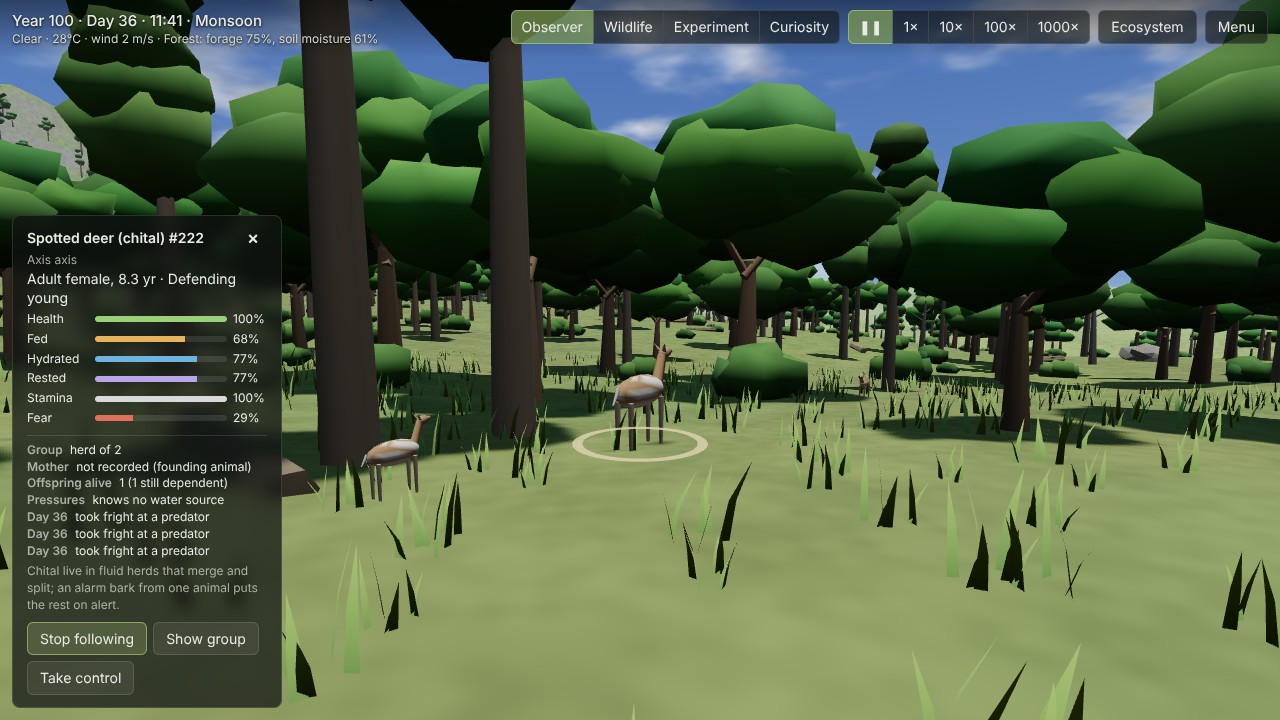
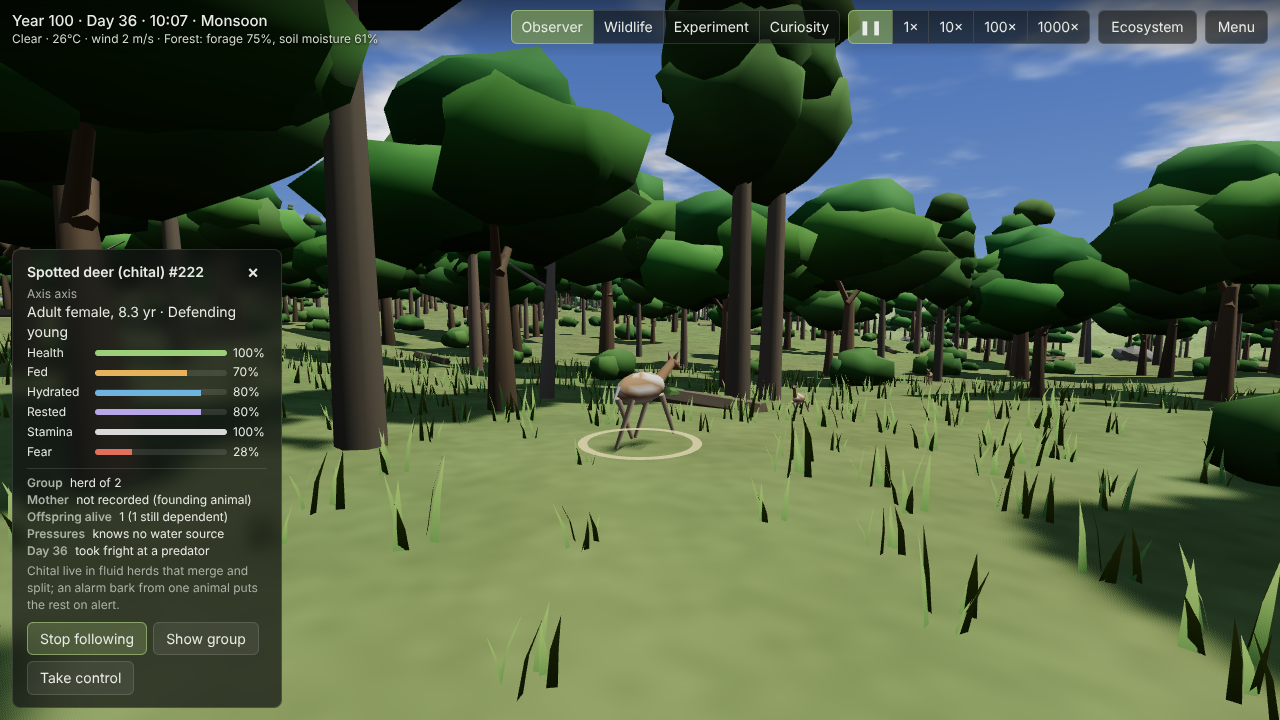
evidence(#31): event-triggered maternal captures, all six scenes (fawn rest/follow, chital defence, sow charge, jackal withdraw/alert)
Claude-Session: https://claude.ai/code/session_01MD7GqSBKWnauofqyDvXkjC

diff --git a/docs/MATERNAL_BEHAVIOUR.md b/docs/MATERNAL_BEHAVIOUR.md
@@ -109,6 +109,22 @@ decide, and physically respond. Unrelated adults have no maternal abilities. Pro
 | Charge injury | 50% of contacts, −0.12 health | Assumed |
 | Chital mother abandon threshold | hunger 0.85 | Assumed |
 
+## Browser captures (`docs/evidence/maternal/`)
+Opt-in project `maternal-capture`, seed 2, medium quality, rendered with SwiftShader.
+- Each scene places real animal records at an open spot. Everything after placement is the simulation.
+- Each capture is triggered by the behaviour actually occurring. The simulation is paused for the screenshot; rendering
+  continues.
+- All six conditions occurred and are recorded in `maternal.json`:
+
+| # | Scene | Simulation state at capture |
+|---|---|---|
+| 1 | Fawn settles beside its resting mother | Both resting |
+| 2 | Mother gets up and walks off | Mother walking; fawn "Following mother" |
+| 3 | Jackal near the fawn | Mother "Defending young" (head high); fawn fleeing to her; jackal alert |
+| 4 | Sow, piglet, jackal | Sow "Defending young" at a run (charge); piglet sheltering; jackal alert |
+| 5 | After the charge | Jackal fleeing (withdrew). The run's counters record a charge contact with an injury |
+| 6 | Adult chital walks toward a jackal | Jackal "Alert", facing it; it does not attack |
+
 ## Not yet done
 - The paired-seed evaluation:
   - juvenile mortality (`juvenileDeaths`, cohort survival);
@@ -117,4 +133,4 @@ decide, and physically respond. Unrelated adults have no maternal abilities. Pro
   - population stability;
   - all against configuration C (territories, closed, B1).
   It will run with the same per-seed runner after the #29 runs, which hold the CPU.
-- Playwright demonstrations of maternal awareness, fawn rest and wake, jackal stalk and withdraw, and the sow's defence.
+
